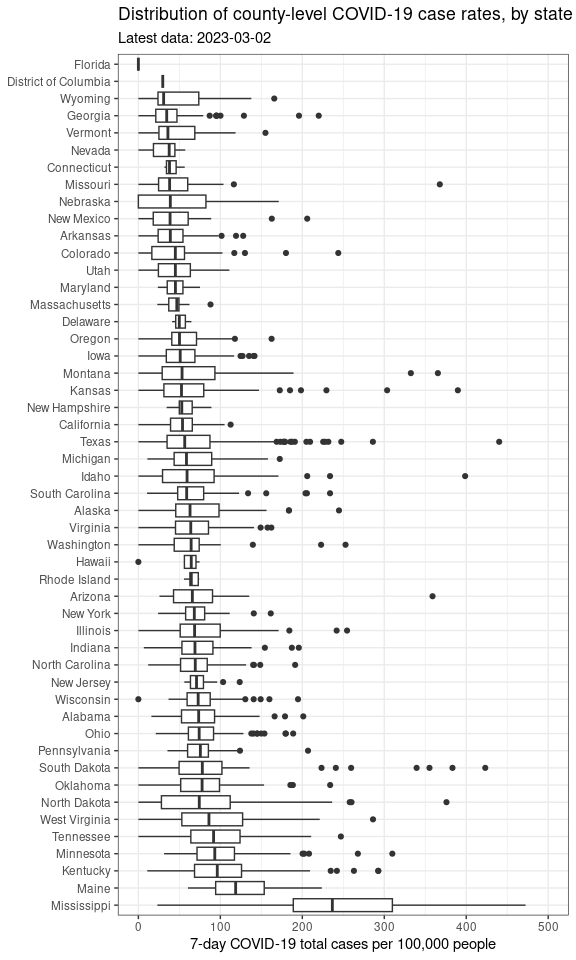
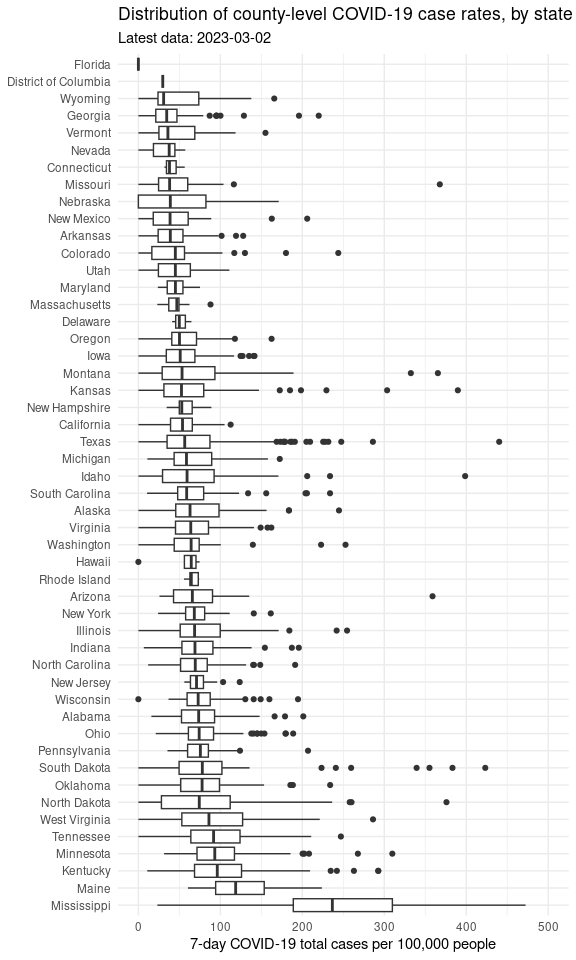
Updated report

diff --git a/README.md b/README.md
@@ -1,7 +1,7 @@
 Minnesota COVID Report
 ================
 
-Report last run: 2023-03-03 21:35:19
+Report last run: 2023-03-03 21:43:57
 
 ## Introduction
 
@@ -83,7 +83,7 @@ rate_data %>%
   xlim(c(0,500)) +
   xlab("7-day COVID-19 total cases per 100,000 people") +
   ylab(NULL) +
-  theme_bw() +
+  theme_minimal() +
   ggtitle("Distribution of county-level COVID-19 case rates, by state",
           subtitle = paste("Latest data:", max(rate_data$date)))
 ```
